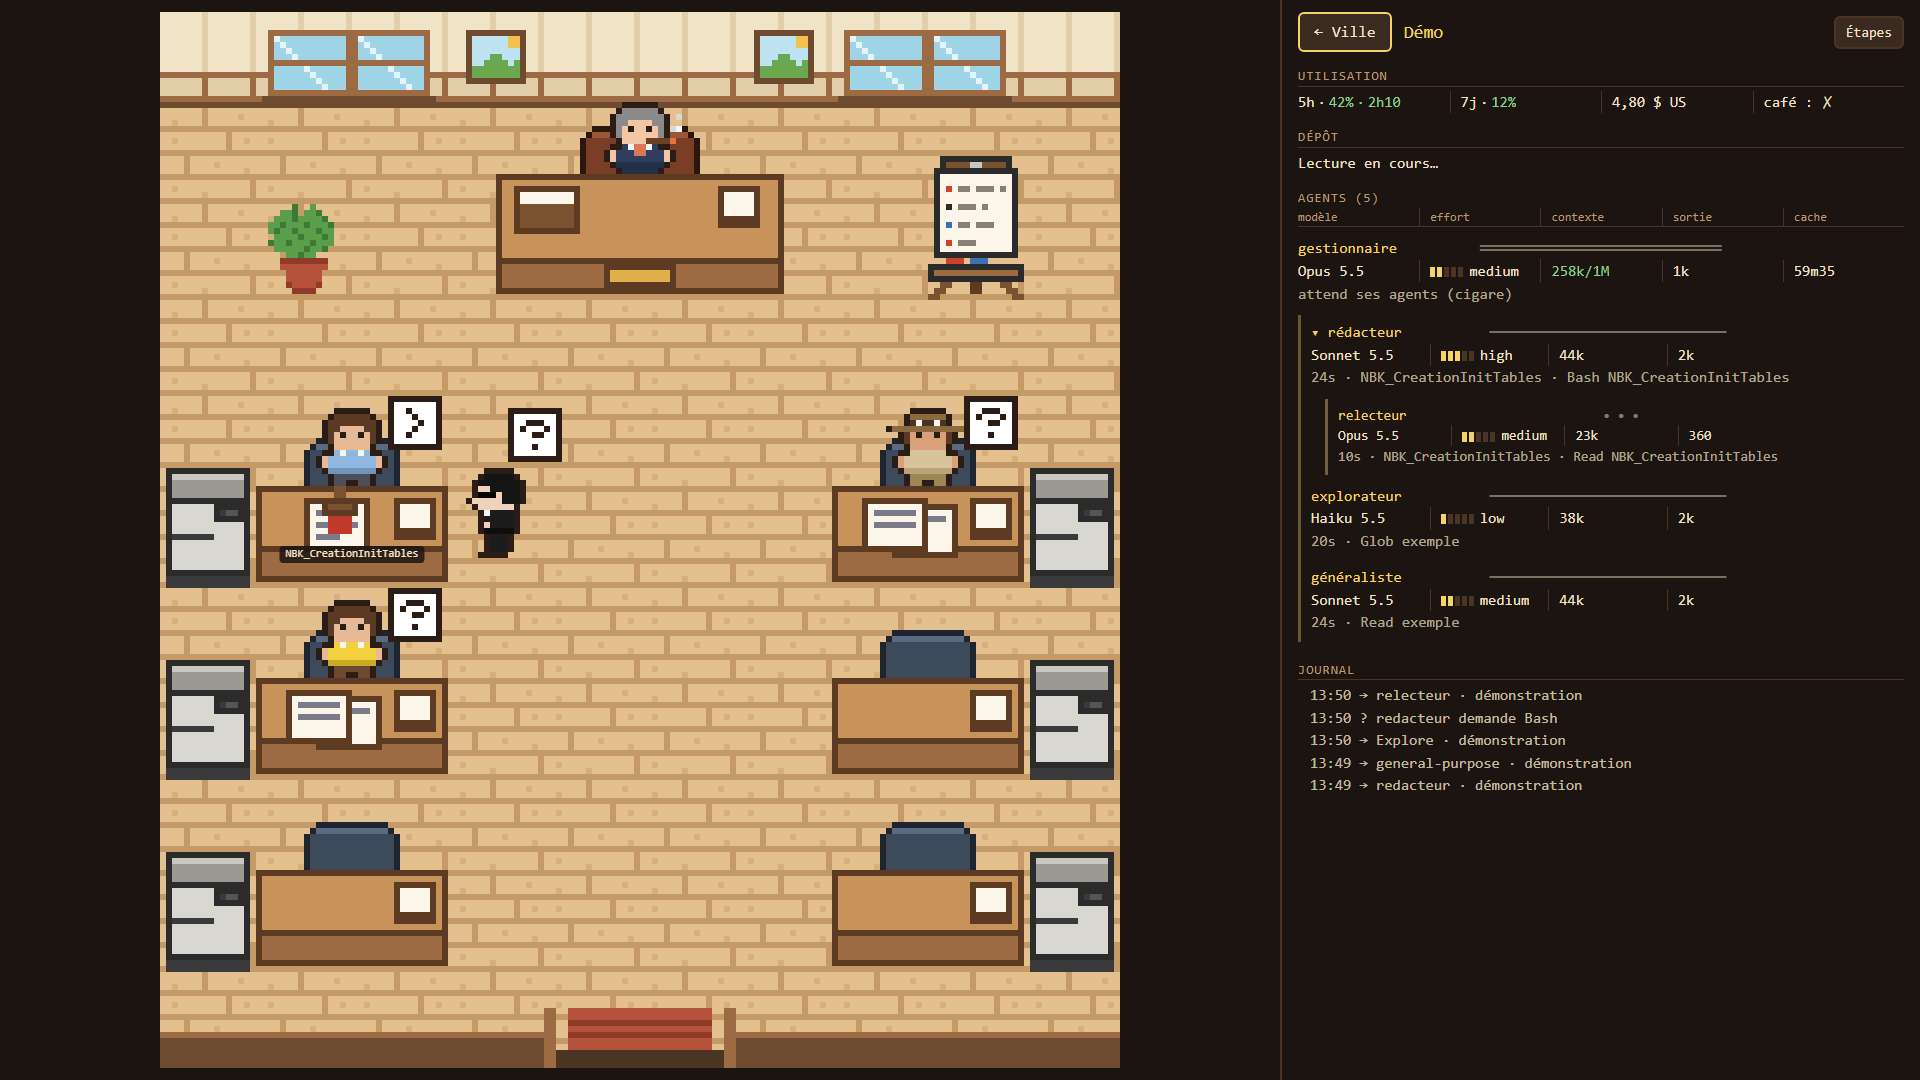
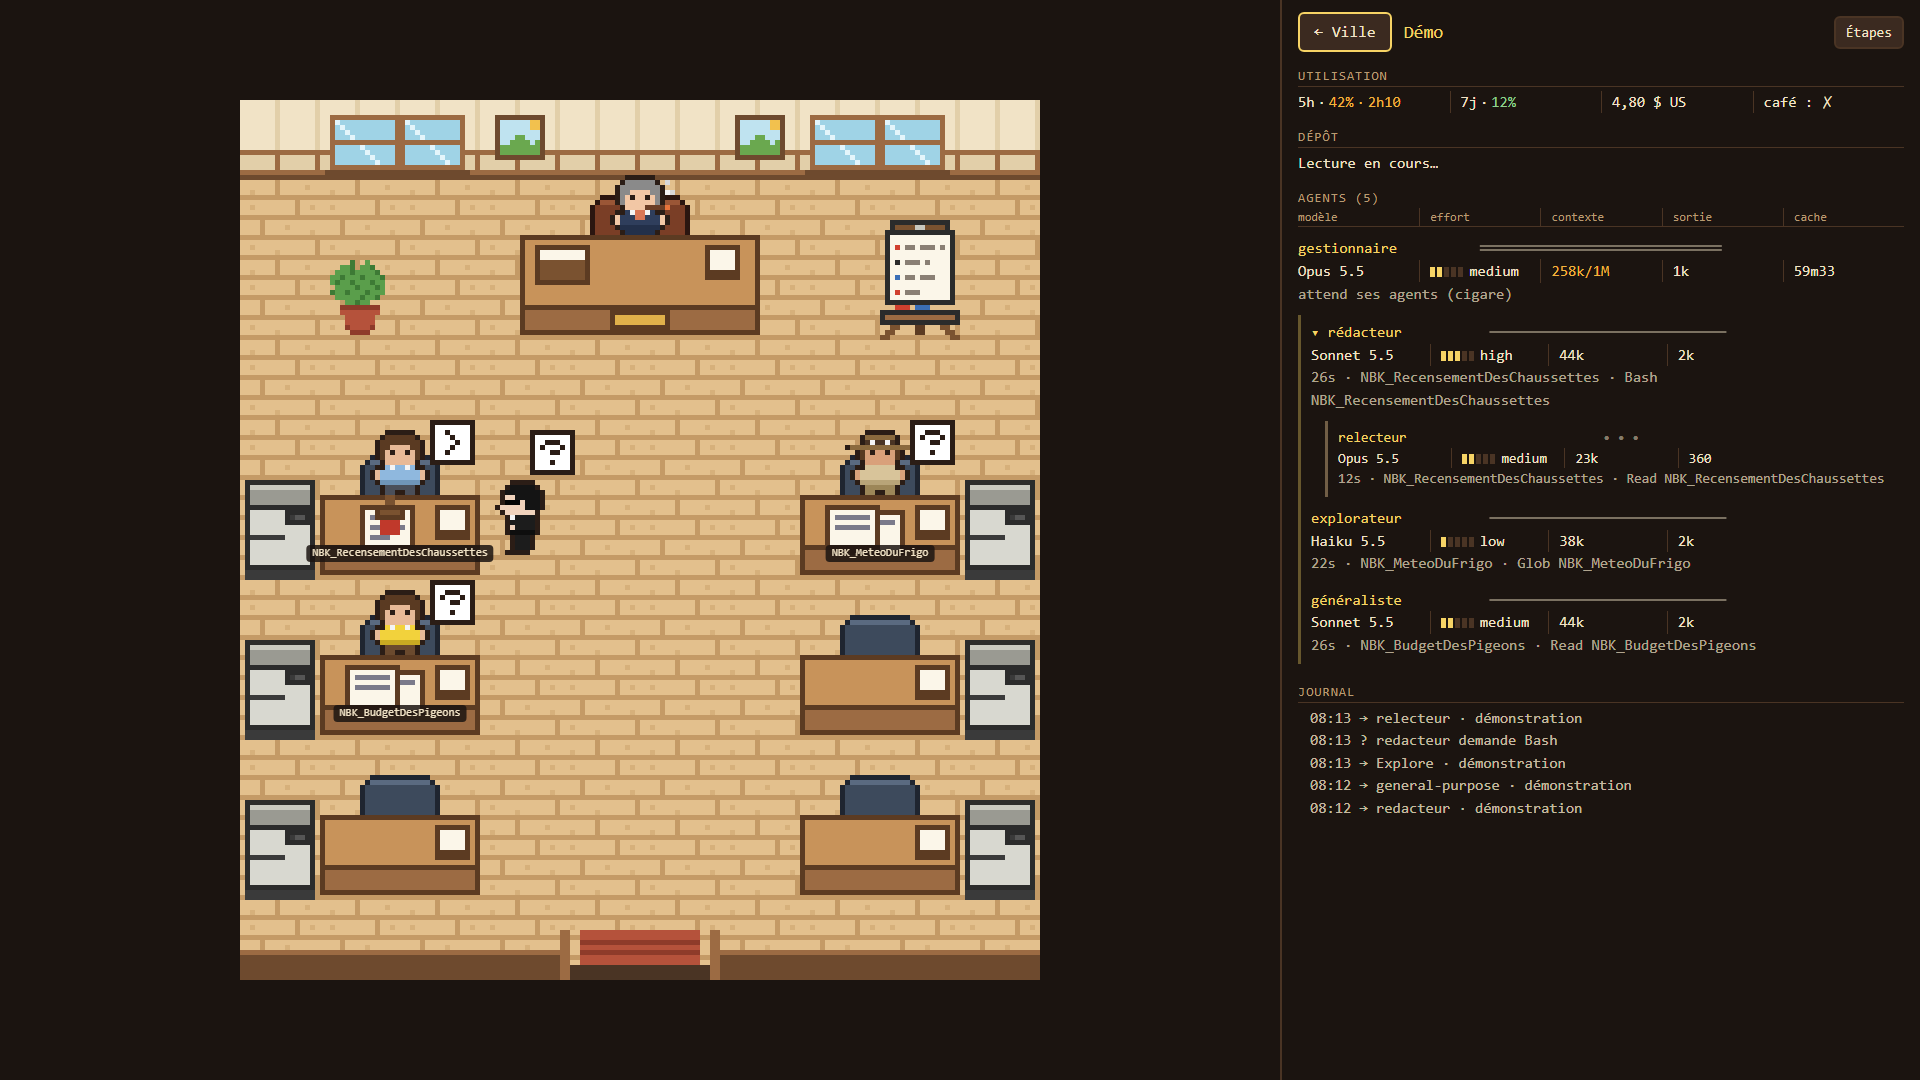
Jauges au rythme d'utilisation, photocopieuse des contrôles et capture de la ville
- Limites : le mod ajoute la part de temps passé (« 5h 80 % 1h15m /75 »)
  et la couleur compare l'utilisation à ce rythme.
- Contexte : ambre dès 25 %, rouge dès 50 %.
- La photocopieuse réagit aussi à controle_gabarit et controle_pipeline.
- La démo prend des noms de notebooks inventés ; captures refaites.
- Nouvelle capture de la ville dans les deux README.

diff --git a/vue/bureau.html b/vue/bureau.html
@@ -1223,16 +1223,25 @@ function duree(ms) {
   return `${Math.floor(s / 3600)}h${String(Math.floor(s / 60) % 60).padStart(2, '0')}`
 }
 
-// Une jauge sans barre : « 5h 92% 56m », le pourcentage en couleur — vert,
-// ambre passé 70 %, rouge passé 90 %. Les espaces autour du point sont
-// resserrées (word-spacing de .jauge) : la jauge tient dans sa colonne.
+const VERT = '#8fcf8f'
+const ROUGE = '#e0604f'
+// Le contexte : ambre dès 25 %, rouge dès 50 %.
+const couleurContexte = pourcent => pourcent >= 50 ? ROUGE : pourcent >= 25 ? AMBRE : VERT
+// Une limite suit son rythme : vert sous 20 % utilisés, ou tant que l'utilisation
+// ne dépasse pas le temps passé. En avance sur le temps : ambre jusqu'à 80 %,
+// rouge au-delà. Sans temps passé connu, seuls les seuils comptent.
+const couleurLimite = (utilise, passe = 0) => utilise < 20 || utilise <= passe ? VERT : utilise > 80 ? ROUGE : AMBRE
+
+// Une jauge sans barre : « 5h 92% 56m », le pourcentage dans la couleur donnée.
+// Les espaces autour du point sont resserrées (word-spacing de .jauge) : la
+// jauge tient dans sa colonne.
 const SEP = ' · '
-function jauge(nom, pourcent, valeur) {
+function jauge(nom, couleur, valeur) {
   const d = document.createElement('span')
   d.className = 'jauge'
   const v = document.createElement('span')
   v.textContent = valeur
-  v.style.color = pourcent >= 90 ? '#e0604f' : pourcent >= 70 ? '#f2b33d' : '#8fcf8f'
+  v.style.color = couleur
   if (nom) d.append(nom, SEP)
   d.append(v)
   return d
@@ -1252,7 +1261,7 @@ function carteGestionnaire(c, activite) {
     rangs: [[
       nomModele(c.modele) ?? '?',
       c.effort ? { effort: c.effort } : '?',
-      ctx?.percent !== undefined ? { jauge: ['', ctx.percent, valeur] } : '',
+      ctx?.percent !== undefined ? { jauge: ['', couleurContexte(ctx.percent), valeur] } : '',
       enK(c.out ?? 0),
       reste === null ? '?' : c.isWorking && !(c.attente > 0) ? '↻' : reste <= 0 ? '✗' : duree(reste),
     ]],
@@ -1449,16 +1458,16 @@ function ecrireInfos() {
   }))
   const div = document.getElementById('limites')
   div.replaceChildren(...limites.map(texte => {
-    // « 5h 80 % 1h15 » devient une jauge ; le reste s'écrit tel quel.
-    const m = texte.match(/^(\S+) (\d+) %(?: (\S+))?$/)
-    if (m) return jauge(m[1], Number(m[2]), `${m[2]}%${m[3] ? `${SEP}${m[3]}` : ''}`)  // « 5h · 92% · 56m »
+    // « 5h 80 % 1h15m /40 » devient une jauge ; le reste s'écrit tel quel. Le
+    // « /40 » (la part de temps passé) ne s'affiche pas : il choisit la couleur.
+    const m = texte.match(/^(\S+) (\d+) %(?: ([^\s/]+))?(?: \/(\d+))?$/)
+    if (m) {
+      const passe = m[4] === undefined ? undefined : Number(m[4])
+      return jauge(m[1], couleurLimite(Number(m[2]), passe), `${m[2]}%${m[3] ? `${SEP}${m[3]}` : ''}`)  // « 5h · 92% · 56m »
+    }
     // Avant la première mesure, « 5h ? » : le même séparateur, sans couleur.
     const inconnu = texte.match(/^(\S+) \?$/)
-    if (inconnu) {
-      const d = jauge(inconnu[1], 0, '?')
-      d.lastChild.style.color = ''
-      return d
-    }
+    if (inconnu) return jauge(inconnu[1], '', '?')
     const d = document.createElement('div')
     d.textContent = texte
     return d

diff --git a/mod/hooks/register.tsx b/mod/hooks/register.tsx
@@ -264,8 +264,9 @@ function devinerNotebook(texte: string): string | undefined {
 const LIRE = ['Read', 'Grep', 'Glob', 'WebFetch', 'WebSearch', 'ToolSearch']
 const ECRIRE = ['Edit', 'Write', 'NotebookEdit']
 const COMMANDE = ['Bash', 'PowerShell']
-// Les commandes d'essai d'un rédacteur : tests automatiques ou vérification de l'app.
-const ESSAI = /\b(npm|pnpm|yarn)\s+(run\s+)?test\b|\bpytest\b|\bnode\s+--check\b|\bpython\s+-m\s+unittest\b|\bvitest\b|\bjest\b/
+// Les commandes d'essai d'un rédacteur : tests automatiques, vérification de
+// l'app, ou scripts de contrôle (ils terminent avec le code 1 s'il y a des écarts).
+const ESSAI = /\b(npm|pnpm|yarn)\s+(run\s+)?test\b|\bpytest\b|\bnode\s+--check\b|\bpython\s+-m\s+unittest\b|\bvitest\b|\bjest\b|\bcontrole_(gabarit|pipeline)\b/
 
 function decrire(e: { tool: string }): { texte: string; glyph: string } {
   const a = e as unknown as Record<string, unknown>
@@ -286,10 +287,13 @@ function decrire(e: { tool: string }): { texte: string; glyph: string } {
 }
 
 const NOMS: Record<string, string> = { five_hour: '5h', seven_day: '7j' }
+// La longueur de chaque fenêtre, en minutes.
+const DUREES: Record<string, number> = { five_hour: 300, seven_day: 10080 }
 
-// « 5h 80 % 1h15m  ·  7j 11 % 3j » : la page en tire une jauge par fenêtre,
-// avec le temps qui reste avant que chacune reparte. Avant la première mesure :
-// « 5h ?  ·  7j ? ».
+// « 5h 80 % 1h15m /75  ·  7j 11 % 3j /57 » : la page en tire une jauge par
+// fenêtre, avec le temps qui reste avant que chacune reparte. Le nombre après
+// la barre est la part de la fenêtre déjà passée, en % : la couleur de la jauge
+// compare l'utilisation à ce rythme. Avant la première mesure : « 5h ?  ·  7j ? ».
 // Dès 24 h, des jours et des heures (« 1j12h ») ; en deçà, des heures (« 23h »),
 // avec leurs minutes sous 10 h (« 1h15m », « 56m »). Une seconde unité à zéro
 // tombe (« 1j », « 1h »). La jauge tient alors dans sa colonne.
@@ -307,7 +311,9 @@ function ligneLimites(liste: Limit[], maintenant: number): string {
       const base = `${NOMS[l.kind] ?? l.kind} ${l.percentUsed} %`
       if (!l.resetsAt) return base
       const min = Math.max(0, Math.round((new Date(l.resetsAt).getTime() - maintenant) / 60000))
-      return `${base} ${tempsRestant(min)}`
+      const duree = DUREES[l.kind]
+      const passe = duree ? ` /${Math.max(0, Math.round((1 - min / duree) * 100))}` : ''
+      return `${base} ${tempsRestant(min)}${passe}`
     })
     .join('  ·  ')
 }

diff --git a/outils/demo.py b/outils/demo.py
@@ -20,11 +20,11 @@ TOURS = int(sys.argv[1]) if len(sys.argv) > 1 else 3
 # Le scénario d'un tour : (seconde d'arrivée, seconde de départ, type,
 # personnage, notebook, et ce qu'il fait au fil du temps).
 AGENTS = [
-    (3, 42, "redacteur", "employe", "NBK_CreationInitTables", [("Read", "?"), ("Edit", "$"), ("Bash", ">")]),
-    (7, 24, "Explore", "explorateur", None, [("Glob", "?"), ("Grep", "?")]),
-    (17, 26, "relecteur", "auditeur", "NBK_CreationInitTables", [("Read", "?"), ("Grep", "?")]),
-    (30, 37, "relecteur", "auditeur", "NBK_CreationInitTables", [("Read", "?")]),
-    (3, 34, "general-purpose", "generique", None, [("Read", "?"), ("Bash", ">")]),
+    (3, 42, "redacteur", "employe", "NBK_RecensementDesChaussettes", [("Read", "?"), ("Edit", "$"), ("Bash", ">")]),
+    (7, 24, "Explore", "explorateur", "NBK_MeteoDuFrigo", [("Glob", "?"), ("Grep", "?")]),
+    (17, 26, "relecteur", "auditeur", "NBK_RecensementDesChaussettes", [("Read", "?"), ("Grep", "?")]),
+    (30, 37, "relecteur", "auditeur", "NBK_RecensementDesChaussettes", [("Read", "?")]),
+    (3, 34, "general-purpose", "generique", "NBK_BudgetDesPigeons", [("Read", "?"), ("Bash", ">")]),
 ]
 # Le générique entre en même temps que le rédacteur : ils font la file à la
 # porte. Les deux auditeurs sont appelés par le premier rédacteur : ils

diff --git a/LISEZMOI.md b/LISEZMOI.md
@@ -4,6 +4,10 @@
 
 Un mod de Claude Code qui montre les agents de la session au travail, dans une ville et des bureaux en pixel art. Chaque session ouverte est une maison ; chaque sous-agent entre par la porte, travaille à son poste, puis ressort.
 
+![La ville : une maison par session ouverte, les fenêtres allumées quand Claude travaille, une main levée quand il attend ta permission](captures/ville.png)
+
+Clique sur une maison pour entrer dans son bureau :
+
 ![Le bureau pendant une session : le gestionnaire en haut, les sous-agents à leur poste, un auditeur qui va voir le rédacteur](captures/bureau.png)
 
 Le bouton **Étapes** remplace le bureau par la liste d'étapes que Claude tient à jour pendant la séance. Le journal, à droite, résume qui est venu et comment ça s'est fini :

diff --git a/README.md b/README.md
@@ -4,6 +4,10 @@
 
 A Claude Code mod that shows your session's agents at work, in a pixel-art town and offices. Each open session is a house. The main agent sits at the manager's desk; each subagent walks in through the door, works at its desk, then leaves.
 
+![The town: one house per open session, with lit windows when Claude is working and a raised hand when it needs your permission](captures/ville.png)
+
+Click a house to step into its office:
+
 ![The office during a session: the manager at the top, subagents at their desks, a reviewer walking over to the writer](captures/bureau.png)
 
 The **Étapes** button swaps the office for the step list Claude keeps up to date during the session. The log on the right recaps who came and how it ended:
